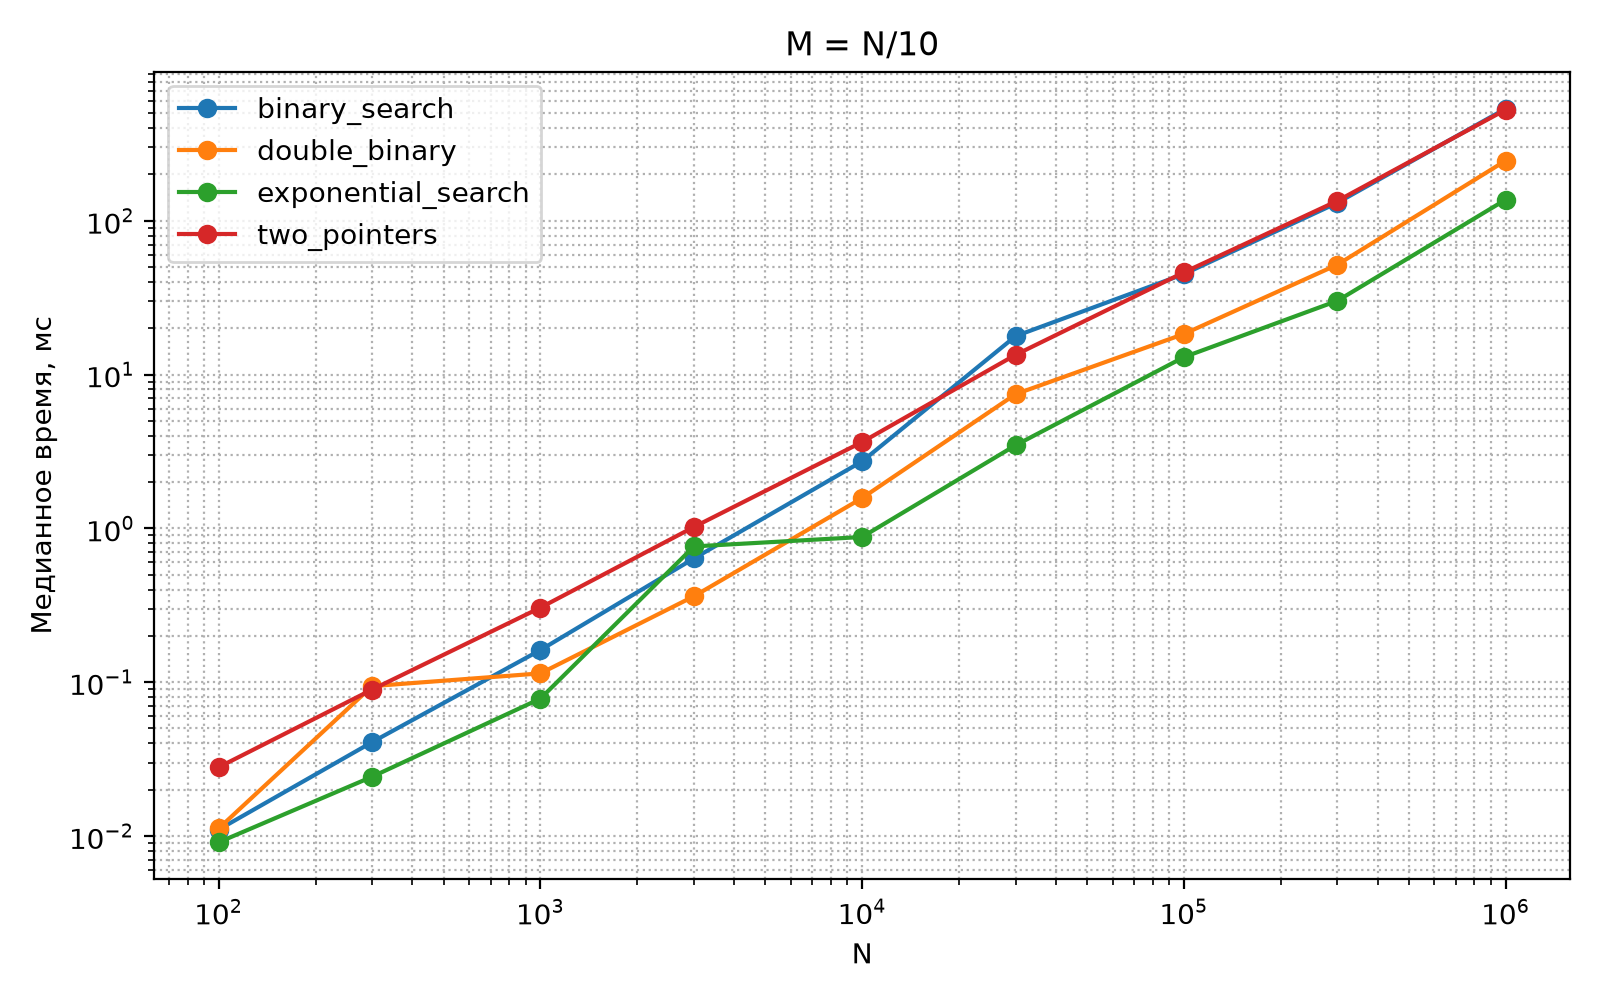
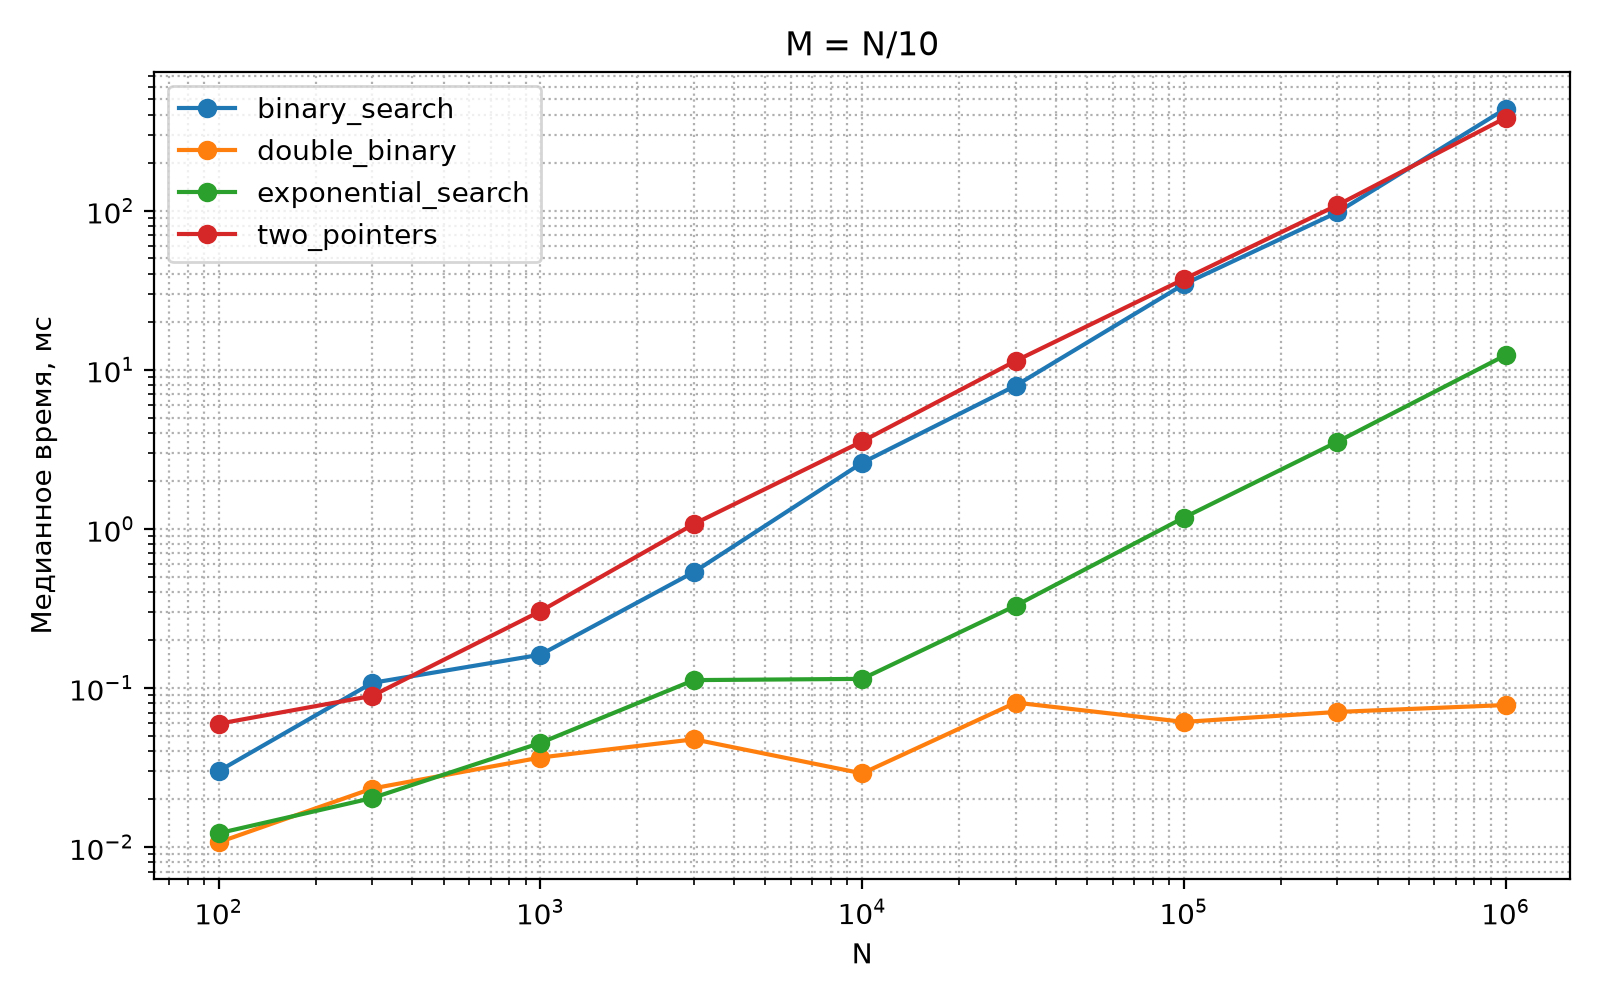
fix gen_worst (finally)

diff --git a/benchmark.py b/benchmark.py
@@ -19,7 +19,8 @@ ALGOS = {
 
 def gen_worst(m: int, n: int):
     assert m <= n
-    a = [2 * i + 1 for i in range(m)]
+    step = (2 * n) // m 
+    a = [step + 1 for i in range(m)]
     b = [2 * i for i in range(n)]
     
     if m > 0:
